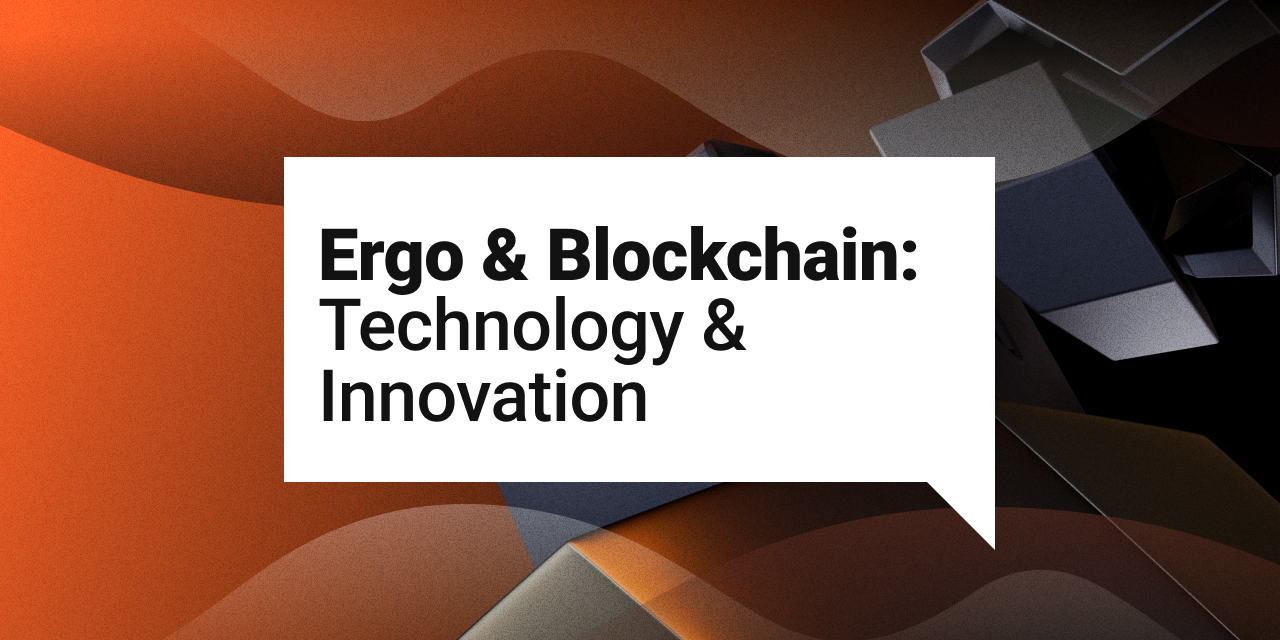
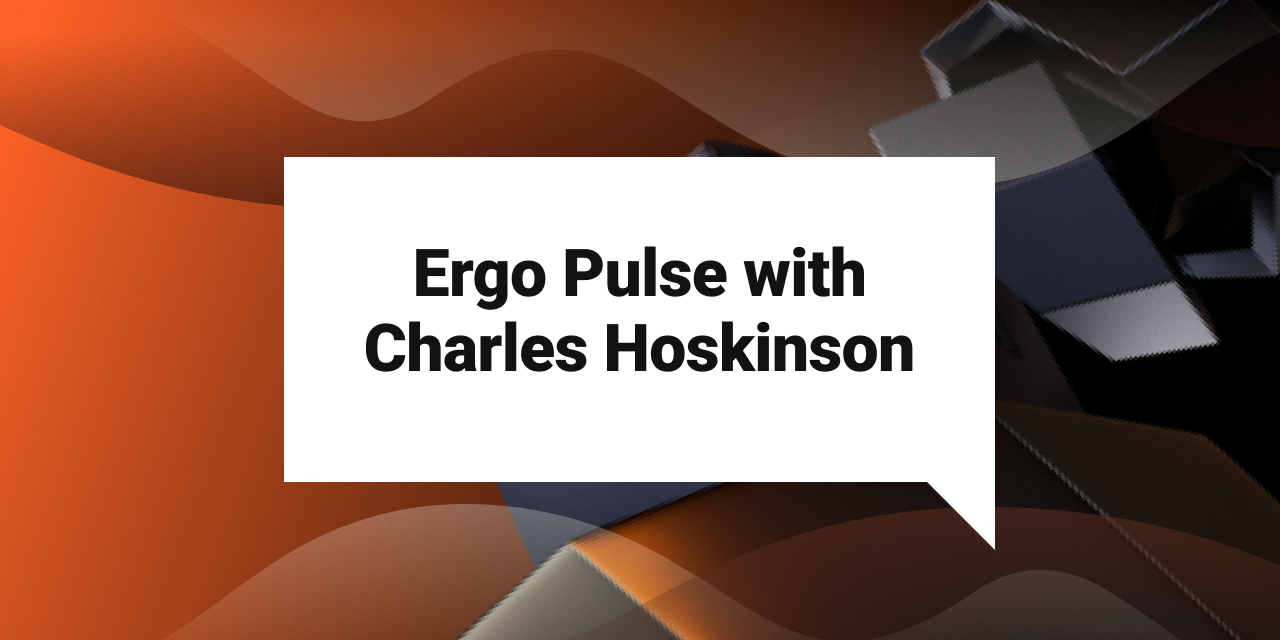
Create English blog post “2022-04-13-ergo-pulse-with-charles-hoskinson”

diff --git a/content/en/blog/2022-04-13-ergo-pulse-with-charles-hoskinson.md b/content/en/blog/2022-04-13-ergo-pulse-with-charles-hoskinson.md
@@ -1,0 +1,27 @@
+---
+title: Ergo Pulse with Charles Hoskinson
+date: 2022-04-13T11:12:36.827Z
+author: Ergo Platform
+authorPhoto: /img/uploads/1762.png
+blogPhoto: /img/uploads/news-blog-21.png
+tags:
+  - Building Ergo
+  - Partnerships
+---
+> “When looking at the things Alex has done, and the team has done, and the community has done, they are logically consistent with what Bitcoin would have been, if it had been developed at a later date.”
+
+\- Charles Hoskinson
+
+The Ergo and Cardano ecosystems have long enjoyed a spirit of collaboration and mutual respect. Both blockchains are eUTXO and possess a great deal of potential for interoperability now and in the future. The latest Ergo Pulse episode was truly a special treat for blockchain enthusiasts, especially those in the Ergo and Cardano ecosystems. While attending conferences in Dubai, Alex Chepurnoy and Dan Friedman were joined by Charles Hoskinson and Joseph Armeanio (who participated via remote feed) to record an in-depth discussion on the cryptocurrency industry. The resulting roundtable featured the four experts exploring numerous topics, including the first principles of blockchain philosophy and theories on the future of crypto. 
+
+During the episode, Hoskinson pointed out that he has “always loved Ergo” and considers the blockchain to be “the spiritual successor of Bitcoin.” Hoskinson explained that the spirit of Ergo and its community is quite analogous to the early days of Bitcoin. He fondly reminisced on how the industry used to focus on philosophies and the potential capabilities of blockchain technology. In his opinion, the industry is currently too focused on the immediate price action of tokens and NFTs instead of the continued development of blockchain capabilities. With Ergo however, he mentioned that it’s really great to see a project committed to researching new ideas and then building them out for real-world use cases. Hoskinson also drew direct parallels between Ergo and Bitcoin, highlighting that it has a fair distribution and a highly expressive scripting language - something that Bitcoin originally intended. He pointed out how Ergo’s Sigma Protocols and UTXO model “are consistent with an evolution of Bitcoin’s tech,” and that Cardano even looked to Ergo’s eUTXO research because development had been a little further along at the time. Ultimately, Hoskinson suggested that Ergo deserves much more “attention, respect, and liquidity,” and that the industry would be a lot further ahead if more blockchains took a page out of Ergo’s book. 
+
+Throughout the episode, Dan posed questions about economic policy, the weaponization of money through legacy systems, regulatory frameworks, Proof of Work mining, and much more. One of the more interesting discussions between the panelists dealt with blockchain interoperability and the implementation of CBDCs (Central Bank Digital Currencies). While exploring the topic of interoperability and the creation of the UTXO alliance, the discussion shifted to how stablecoins will play a significant role in the industry. Hoskinson proposed a scenario where CBDCs could revolutionize tourism economies while possibly laying the foundation for the implementation of a universal basic income model. While this scenario highlights a potential positive use case for CBDCs, the roundtable members also explored how CBDCs could negatively impact individuals and perpetuate the weaponization of money by centralized entities. Hoskinson suggested that CBDCs need to be implemented on open permissionless ledgers, and that Ergo and Cardano are two such projects with that capability. If centralized entities build the infrastructure for CBDCs, there will always be the risk that those entities could shut off, or limit, access to money.
+
+The roundtable featured a discussion on Proof of Work (PoW) and Proof of Stake (Pos) as well as Ethereum’s proposed transition to PoS. There was a great deal of conjecture about whether Ergo will inherit a large share of Ethereum’s mining community and the four panelists discussed potential competitors, including Ravencoin and Ethereum Classic. Hoskinson presented many reasons why Ethereum is facing problems transitioning to PoS, and all four participants agreed that it will be hard to predict when Ethereum finally switches to PoS.
+
+Towards the end of the episode, Dan asked the roundtable to share their thoughts on synergies between Cardano and Ergo. Hoskinson mentioned he would like to see more collaboration on the science of Sigma Protocols as well as certification standards of smart contracts. Cardano is currently exploring the concept of Useful Proof of Work, and Hoskinson mentioned that he would like the Ergo community to review the work and be a potential recipient of it. Chepurnoy discussed off chain collaborations between Ergo and Cardano. He talked about exploring Layer 2 solutions, including running ErgoDEX on Layer 2 for both Ergo and Cardano. Recognizing what has been created by Cardano, Chepurnoy admitted there are a lot of things to explore, including design patterns and choices in Plutus as well as Hydra implementations. Armeanio also reminded everyone that Ergo’s Rosen framework is about 10 weeks away and will open more possibilities for bridging to other chains, including Cardano. 
+
+This article offers a brief overview of the latest Ergo Pulse episode. In fact, this document is mostly a teaser for the treasure trove of information that Chepurnoy, Hoskinson, Friedman and Armeanio presented during their discussion. Ultimately, this roundtable explored many of crypto’s first principles and reiterated why the world needs permissionless, trustless systems. Blockchain technology can allow users to verify any data, and if this is designed and constructed properly, it has the potential to improve the lives of everyone. Hoskinson talked about the need to explore how blockchain can recreate societal institutions to more effectively handle their complexities, and the others agreed that this technology has the potential to improve accountability and decrease the influence of bad actors - if properly constructed and utilized.
+
+For those who are interested in learning more, please visit the Ergo Platform YouTube channel to [watch this episode](https://www.youtube.com/watch?v=k9a3SYV6FJA).
